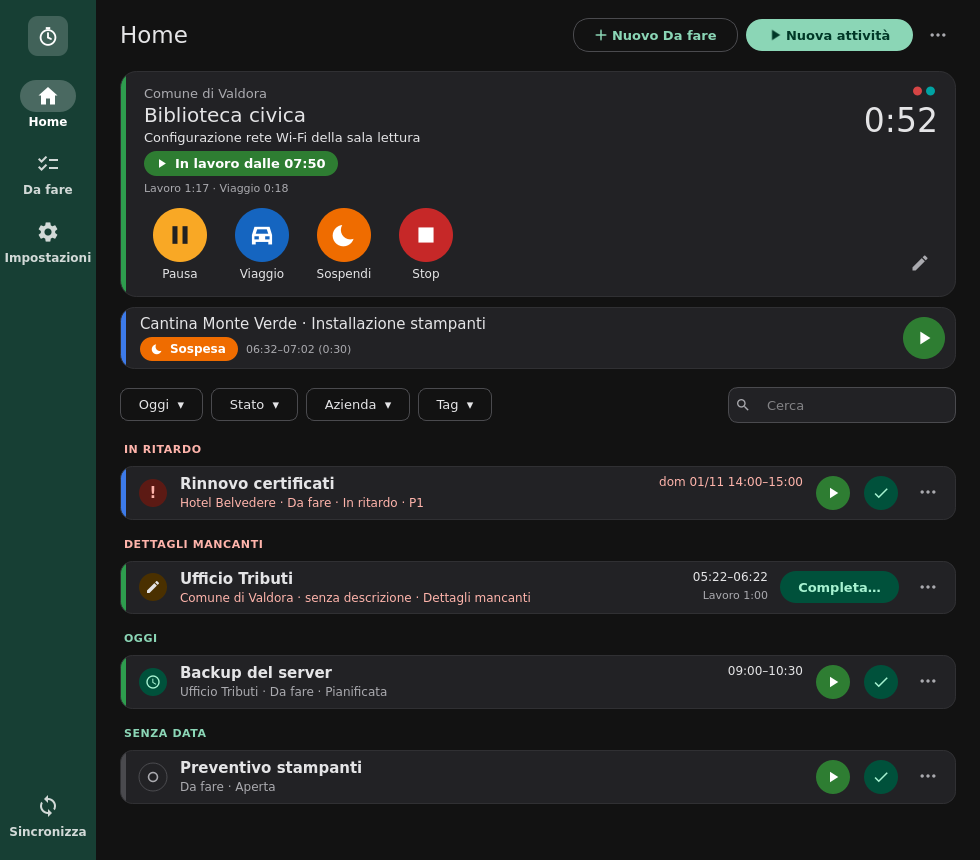
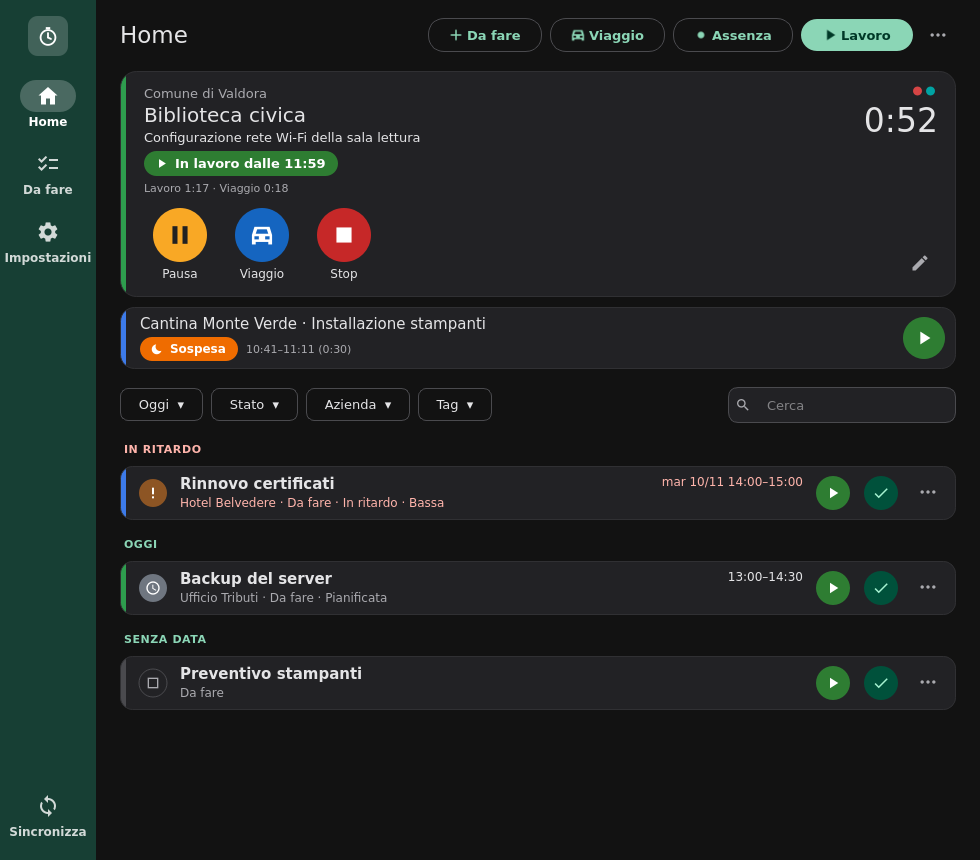
Desktop manual: 1.0 screenshots retaken (Home, dark Home, quick entry, activity, To-dos, new To-do); stop sheet removed
Claude-Session: https://claude.ai/code/session_011BpCrR3Cg3jpSqTZaoR4wW

diff --git a/manual/desktop/en/desktop.md b/manual/desktop/en/desktop.md
@@ -113,7 +113,6 @@ at the bottom, **Sincronizza** (sync, F5) with a red dot when the sync has a
 problem. It is light or dark as the system.
 
 ![The Home](../img/home.png)
-<!-- screenshot to retake: Home 1.0 with the header buttons Da fare/Lavoro/Viaggio/Assenza, state pill, no Sospendi -->
 
 The **Home** is the phone's:
 
@@ -135,7 +134,6 @@ The coloured strip on the left of each card is the company's (or the
 client's) colour chosen on the web or on the phone.
 
 ![The Home in the dark theme](../img/home-dark.png)
-<!-- screenshot to retake: dark Home with the 1.0 layout -->
 
 ### Keyboard shortcuts
 
@@ -164,7 +162,6 @@ Start, pause and stop also have shortcuts that work from any program:
 ### A new activity
 
 ![New activity](../img/quick.png)
-<!-- screenshot to retake: quick entry 1.0 with the modes Adesso / Già iniziata / Passata -->
 
 **"Nuova attività"** (from the menu, the Home's **Lavoro** button or with **Ctrl+N**) opens the
 quick entry, on top of the other windows:
@@ -198,7 +195,6 @@ counted apart in the reports.
 ### The full form
 
 ![Full form](../img/entry.png)
-<!-- screenshot to retake: activity form/detail 1.0 with the state pill, total and action buttons -->
 
 Company, client, role, quick pick, description, locality, notes and tags, as
 the policy says (it may rename, hide or require them). For an existing
@@ -267,7 +263,6 @@ An activity to do has the round buttons **Avvia** (start) and **Fatto** (done) a
 fare"** (put back to do); a click on the row opens it. An **Incomplete** activity is opened and fixed like the others.
 
 ![The Da fare section](../img/todos.png)
-<!-- screenshot to retake: Da fare section with state names, priority names, Cestino -->
 
 The **Da fare** section (Ctrl+2) shows them all, by due date and plan, with **"Anche le fatte"** (done ones too), the
 **Cestino** (bin), the company and the search; **"Nuovo Da fare"** (or **Ctrl+D**) makes one. **Elimina** moves the activity
@@ -275,7 +270,6 @@ to the **Cestino**, where **Ripristina** (restore) puts it back and **Elimina de
 removes it.
 
 ![To-do](../img/todo.png)
-<!-- screenshot to retake: new "Da fare" form with priority names (Nessuna … Emergenza) -->
 
 The form has company, client, description, notes, references (tickets, links: one per line), **due date**, **plan** (day,
 time, duration) and **priority** (None, Low, Medium, High, Urgent, Emergency; instead of P1…P5). A management-system item

diff --git a/manual/desktop/it/desktop.md b/manual/desktop/it/desktop.md
@@ -112,7 +112,6 @@ La finestra ha l'aspetto dell'app: a sinistra la barra verde con **Home**,
 problema. È chiara o scura come il sistema.
 
 ![La Home](../img/home.png)
-<!-- screenshot to retake: Home 1.0 with the header buttons Da fare/Lavoro/Viaggio/Assenza, state pill, no Sospendi -->
 
 La **Home** è quella del telefono:
 
@@ -133,7 +132,6 @@ La striscia colorata a sinistra di ogni scheda è il colore dell'azienda (o
 del cliente) scelto sul web o sul telefono.
 
 ![La Home con il tema scuro](../img/home-dark.png)
-<!-- screenshot to retake: dark Home with the 1.0 layout -->
 
 ### Scorciatoie da tastiera
 
@@ -162,7 +160,6 @@ programma: §10.
 ### Nuova attività
 
 ![Nuova attività](../img/quick.png)
-<!-- screenshot to retake: quick entry 1.0 with the modes Adesso / Già iniziata / Passata -->
 
 **"Nuova attività"** (dal menu, dalla Home con **Lavoro** o con **Ctrl+N**) apre l'inserimento rapido, sopra le altre finestre:
 
@@ -194,7 +191,6 @@ contate a parte nei report.
 ### Il modulo completo
 
 ![Modulo completo](../img/entry.png)
-<!-- screenshot to retake: activity form/detail 1.0 with the state pill, total and action buttons -->
 
 Azienda, cliente, ruolo, scelta rapida, descrizione, località, note e tag,
 secondo la policy (che può rinominarli, nasconderli o renderli obbligatori).
@@ -262,14 +258,12 @@ spuntata per errore (senza tratti) torna indietro con **"Rimetti da fare"**; un 
 **Incompleta** si apre e si corregge come le altre.
 
 ![La sezione Da fare](../img/todos.png)
-<!-- screenshot to retake: Da fare section with state names, priority names, Cestino -->
 
 La sezione **Da fare** (Ctrl+2) le mostra tutte, per scadenza e pianificazione, con **"Anche le fatte"**, il **Cestino**,
 l'azienda e la ricerca; **"Nuovo Da fare"** (o **Ctrl+D**) ne crea una. **Elimina** sposta l'attività nel **Cestino**, da dove
 **Ripristina** la rimette a posto ed **Elimina definitivamente** la cancella.
 
 ![Da fare](../img/todo.png)
-<!-- screenshot to retake: new "Da fare" form with priority names (Nessuna … Emergenza) -->
 
 Il modulo ha azienda, cliente, descrizione, note, riferimenti (ticket, link: uno per riga), **scadenza**, **pianificazione**
 (giorno, ora, durata) e **priorità** (Nessuna, Bassa, Media, Alta, Urgenza, Emergenza; al posto di P1…P5). Una voce del
